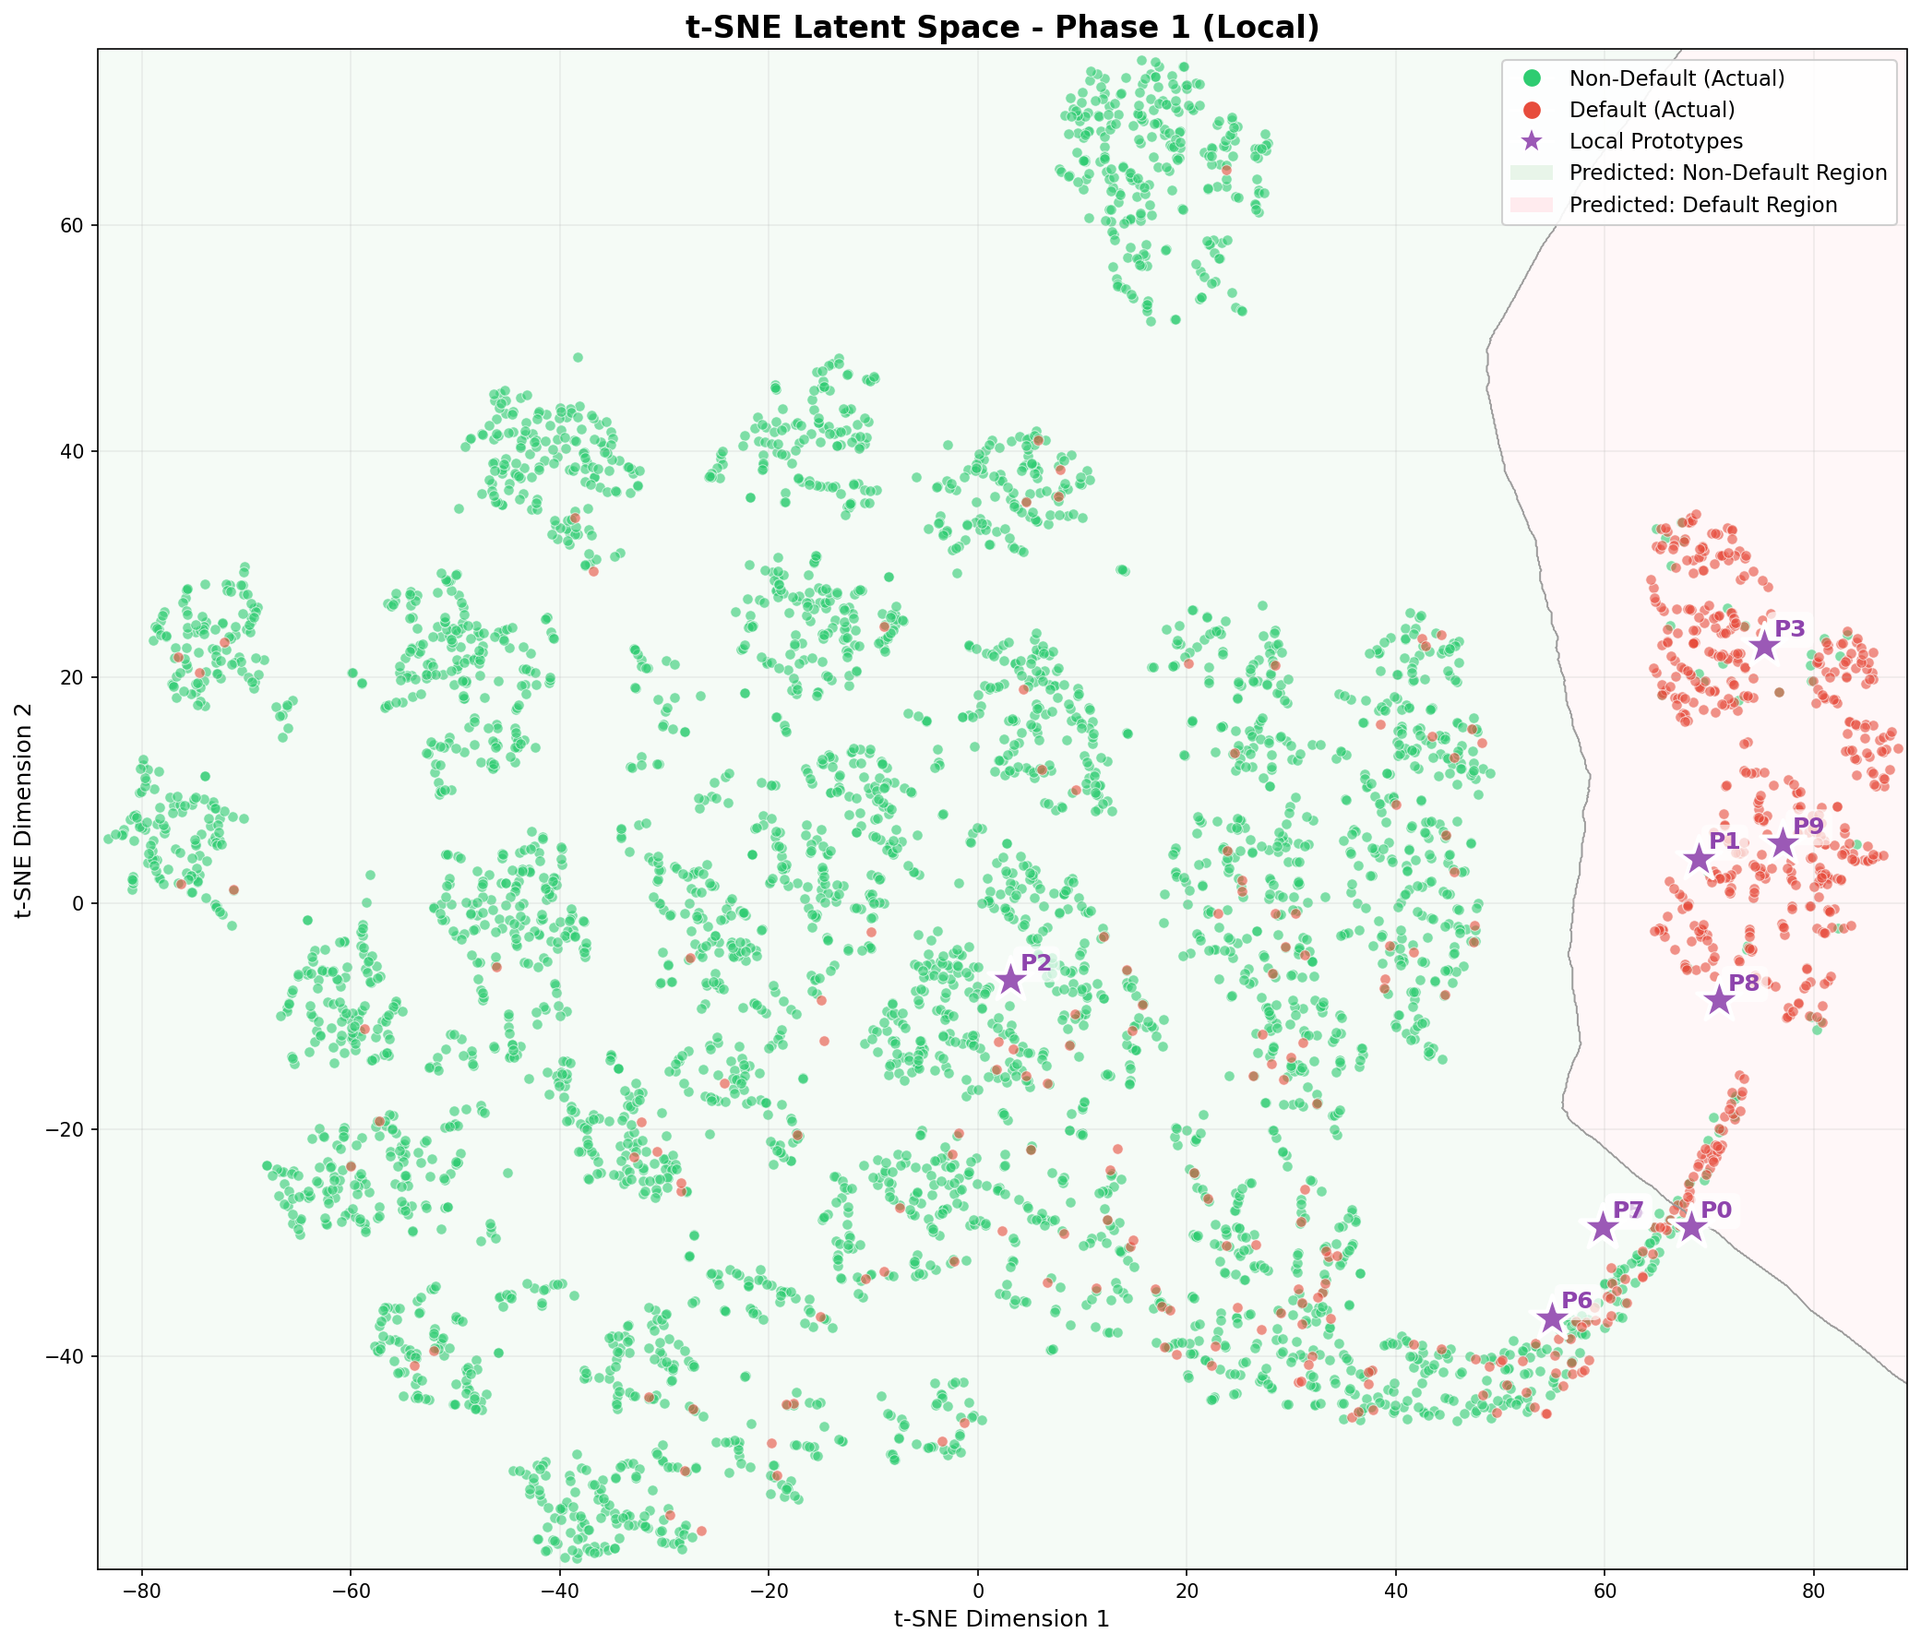
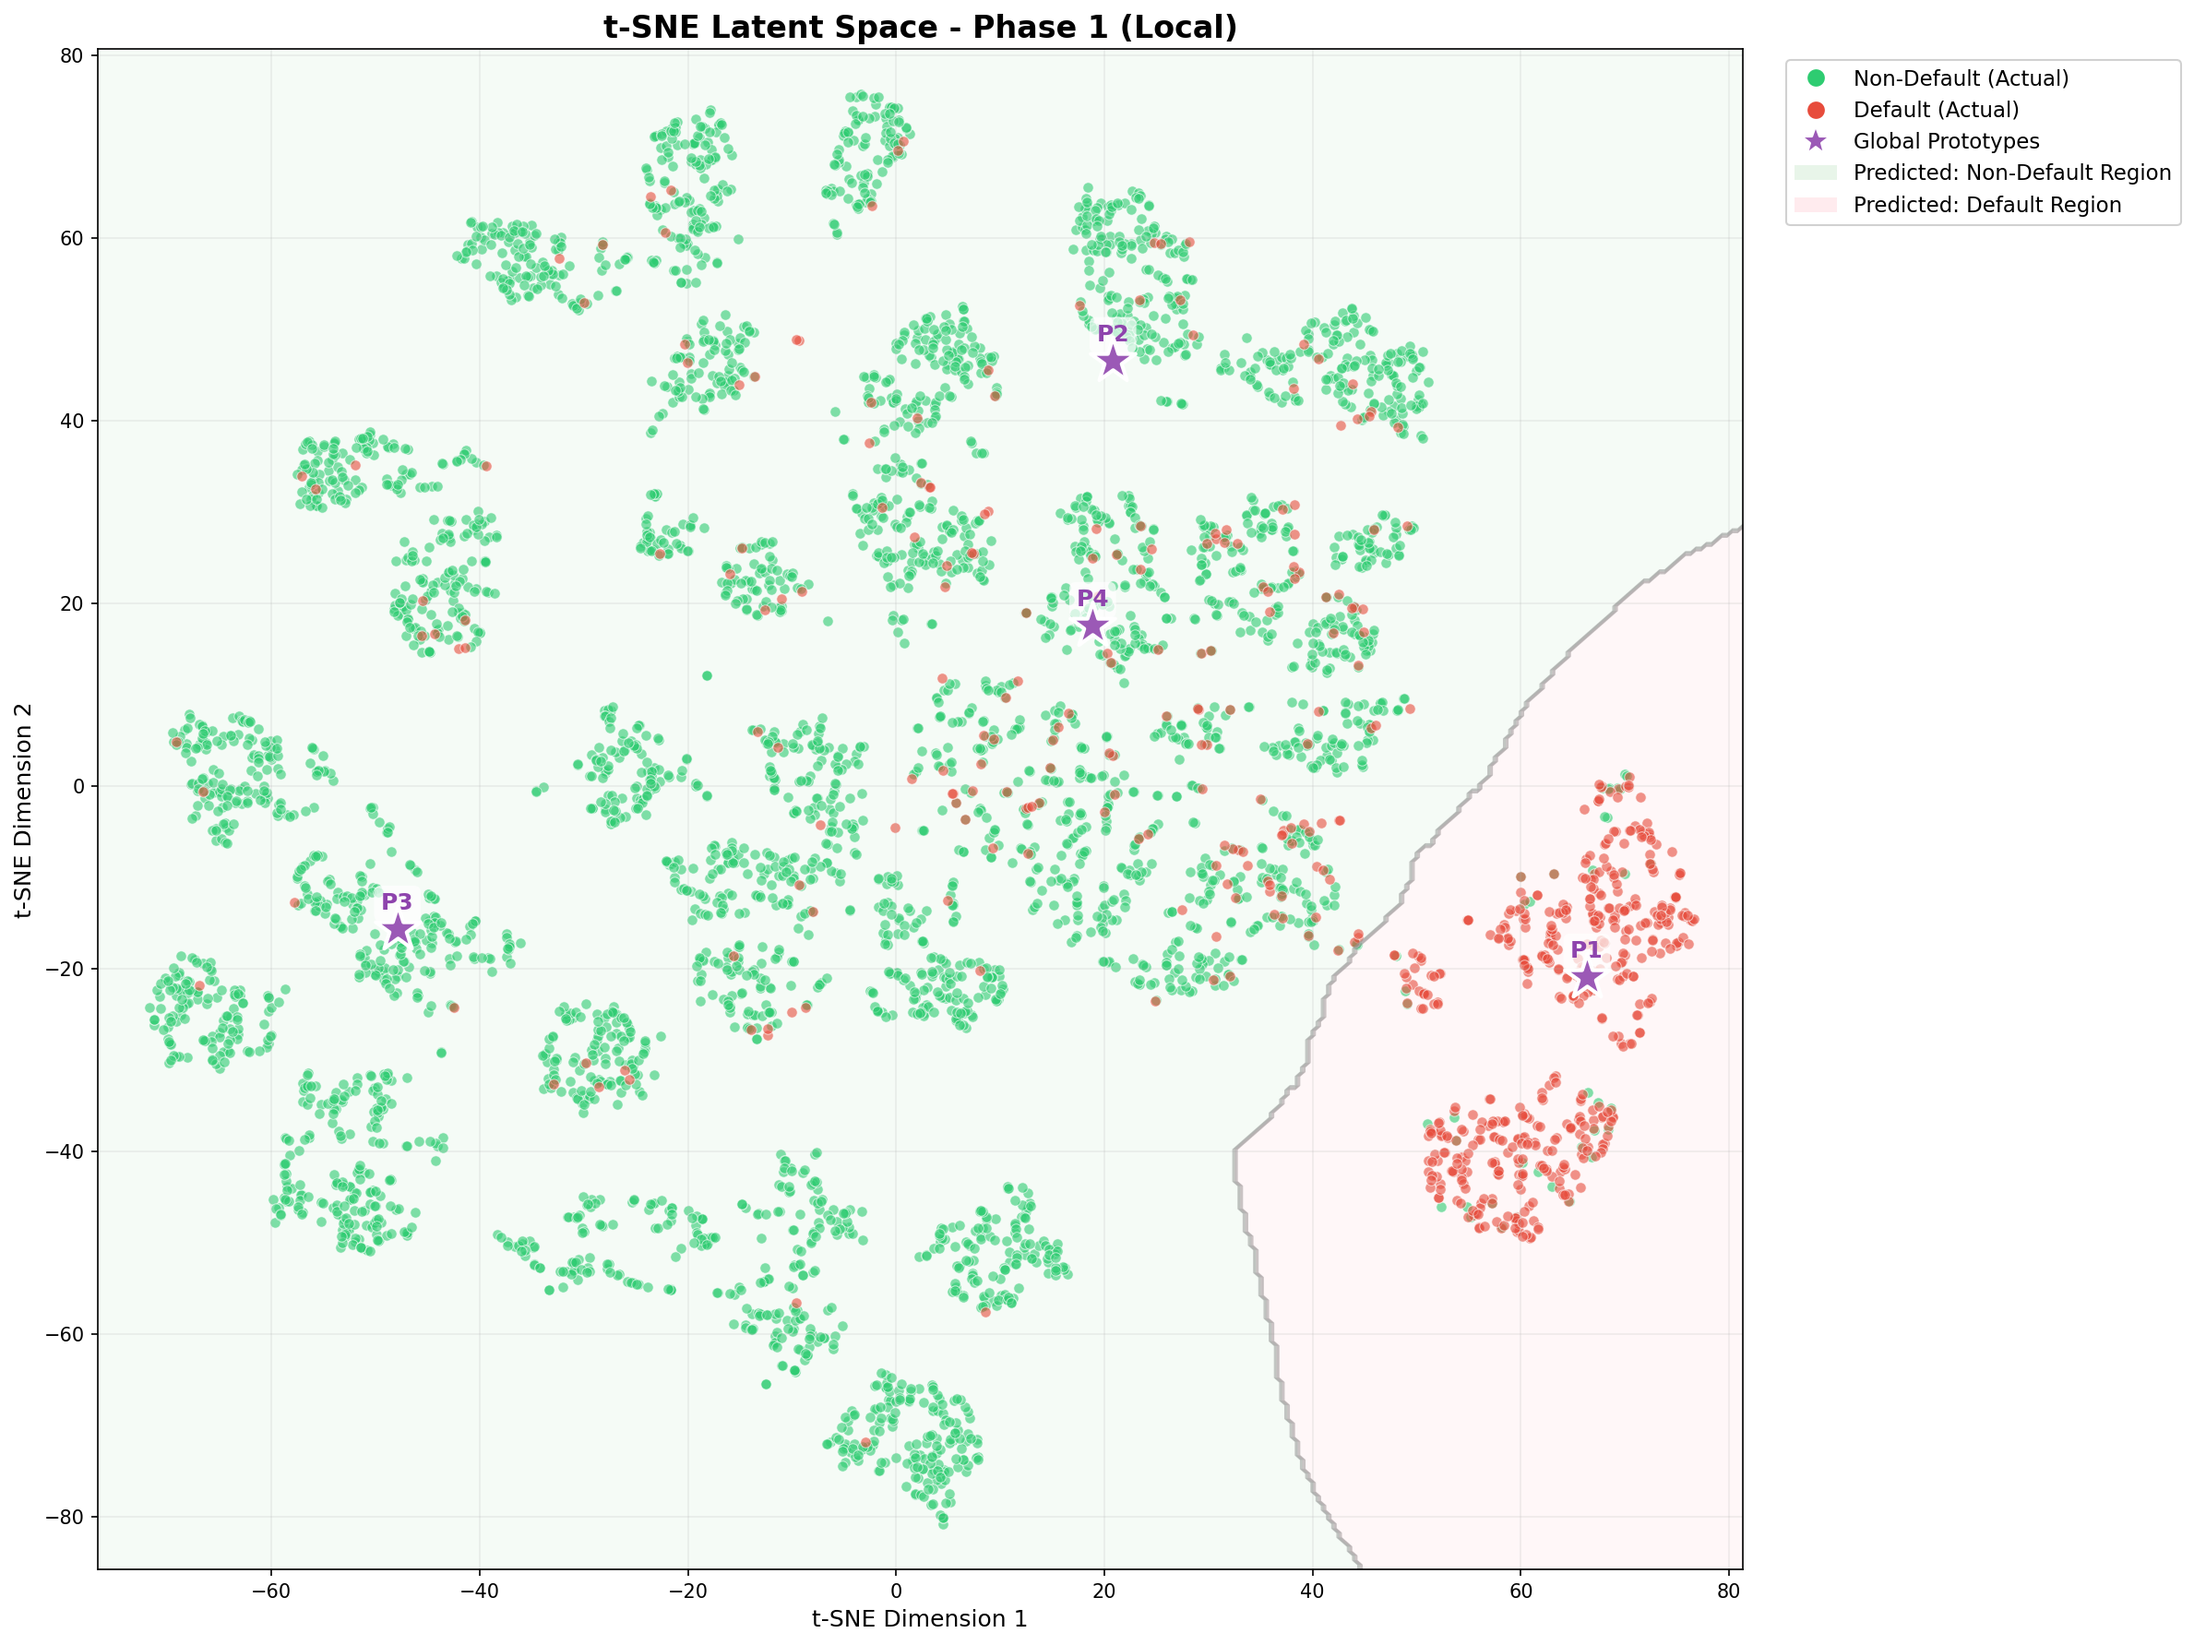
리팩토링 완료. 거의 최종

diff --git a/generate_outputs.py b/generate_outputs.py
@@ -60,11 +60,10 @@ def load_model_and_preprocessor(
     checkpoint = torch.load(model_path, map_location='cpu')
     state_dict = checkpoint['model_state_dict']
     
-    # Infer n_prototypes from state_dict
+    # Infer n_prototypes from state_dict (Silent update)
     if 'prototype_layer.prototypes' in state_dict:
         n_prototypes = state_dict['prototype_layer.prototypes'].shape[0]
         config.n_prototypes = n_prototypes
-        print(f"  Inferred n_prototypes: {n_prototypes}")
     
     # Infer global prototypes
     if 'global_prototype_layer.prototypes' in state_dict:
@@ -118,10 +117,10 @@ def create_tsne_visualization(
     perplexity: int = 30,
     random_state: int = 42
 ):
-    """Create t-SNE visualization of latent space with prototypes."""
+    """Create t-SNE visualization using GLOBAL prototypes for all phases."""
     print(f"Creating t-SNE visualization with {n_samples} samples...")
     
-    # Sample training data
+    # Sample training data for visualization
     np.random.seed(random_state)
     indices = np.random.choice(len(train_num), min(n_samples, len(train_num)), replace=False)
     
@@ -129,18 +128,40 @@ def create_tsne_visualization(
     sampled_cat = train_cat[indices]
     sampled_labels = train_labels[indices]
     
-    # Get latent representations
-    print("  Getting latent representations...")
+    # Get latent representations for sampled data
+    print("  Getting latent representations for visualization...")
     latents = get_latent_representations(model, sampled_num, sampled_cat)
     
-    # Get prototype vectors based on phase
-    if model.phase == 2:
-        prototypes = model.global_prototype_layer.prototypes.detach().numpy()
-        proto_label = 'Global Prototypes'
-    else:
-        prototypes = model.prototype_layer.prototypes.detach().numpy()
-        proto_label = 'Local Prototypes'
+    # --- HANDLE PROTOTYPES ---
+    # We ALWAYS want to show Global Prototypes (4), even for Phase 1.
+    # If the model is in Phase 1 or Global Prototypes are not initialized (all zeros or random),
+    # we need to initialize them using KMeans on the embeddings, just like in Phase 2 training.
+    
+    print("  Preparing Global Prototypes...")
+    global_protos = model.global_prototype_layer.prototypes.detach().cpu()
+    
+    # Check if we need to initialize/re-initialize global prototypes
+    # Condition: Phase 1 OR (Phase 2 but prototypes look uninitialized/random)
+    # A simple check is difficult, so for Phase 1 we ALWAYS re-initialize to show what Phase 2 WOULD start with.
+    if model.phase == 1:
+        print("    Phase 1 detected: Initializing Global Prototypes via KMeans for visualization...")
+        # We need embeddings from FULL training data to do good KMeans, or at least a large subset.
+        # Using the sampled data (5000) is usually sufficient for valid visualization.
+        
+        # NOTE: model.initialize_global_prototypes expects tensor on same device
+        # We use the 'latents' computed above (numpy) -> tensor
+        latents_tensor = torch.tensor(latents, dtype=torch.float32)
+        
+        # Run KMeans initialization
+        model.global_prototype_layer.initialize_from_embeddings(latents_tensor)
+        
+        # Update global_protos
+        global_protos = model.global_prototype_layer.prototypes.detach().cpu()
+        print(f"    Initialized {len(global_protos)} Global Prototypes.")
+    
+    prototypes = global_protos.numpy()
     n_prototypes = len(prototypes)
+    proto_label = 'Global Prototypes'
     
     # Combine latents and prototypes for t-SNE
     all_vectors = np.vstack([latents, prototypes])
@@ -166,13 +187,18 @@ def create_tsne_visualization(
     
     z_tensor = torch.tensor(latents, dtype=torch.float32)
     with torch.no_grad():
+        # Ideally, we should use the full model, but for Phase 1, pspace_classifier isn't trained.
+        # So we use the Phase 1 classifier (local prototypes) to get the PREDICTIONS (Non-Default/Default),
+        # but we visualize the GLOBAL prototypes.
+        
         if model.phase == 2:
             coordinates = model.projector(z_tensor)
             p_space = model.global_prototype_layer(coordinates)
             logits = model.pspace_classifier(p_space).squeeze(-1)
         else:
-            similarities = model.prototype_layer(z_tensor)
-            logits = model.classifier(similarities)
+            # Phase 1: Use simple linear classifier (no local prototypes)
+            logits = model.phase1_classifier(z_tensor).squeeze(-1)
+            
         probs = torch.sigmoid(logits).numpy()
         preds = (probs > 0.5).astype(int)
         

diff --git a/src/training/losses.py b/src/training/losses.py
@@ -9,30 +9,28 @@ from typing import Dict
 
 class PrototypeLoss(nn.Module):
     """
-    Combined loss function for prototype network (Phase 1).
+    Phase 1 Loss function (aligned with PTaRL paper).
     
-    Loss = L_classification + λ_recon * L_reconstruction 
-         + λ_diversity * L_diversity + λ_clustering * L_clustering
+    Loss = L_classification + λ_recon * L_reconstruction
     
     Components:
     1. Classification Loss (BCE): Main task loss
-    2. Reconstruction Loss: Ensures latent space preserves information
-    3. Diversity Loss: Encourages prototypes to be different
-    4. Clustering Loss: Encourages samples to be near prototypes
+    2. Reconstruction Loss: Ensures latent space preserves information (keeps decoder aligned)
+    
+    Note: Diversity and Clustering losses removed per PTaRL paper.
+          Phase 1 is simple supervised learning without prototypes.
     """
     
     def __init__(
         self,
         lambda_reconstruction: float = 0.1,
-        lambda_diversity: float = 0.01,
-        lambda_clustering: float = 0.05,
+        lambda_diversity: float = 0.01,  # Kept for backward compat, but unused
+        lambda_clustering: float = 0.05,  # Kept for backward compat, but unused
         num_weight: float = 1.0,
         cat_weight: float = 1.0
     ):
         super().__init__()
         self.lambda_reconstruction = lambda_reconstruction
-        self.lambda_diversity = lambda_diversity
-        self.lambda_clustering = lambda_clustering
         self.num_weight = num_weight
         self.cat_weight = cat_weight
         
@@ -46,17 +44,17 @@ class PrototypeLoss(nn.Module):
         targets: torch.Tensor,
         x_num: torch.Tensor,
         x_cat: torch.Tensor,
-        prototype_layer
+        prototype_layer=None  # Not used anymore, kept for backward compat
     ) -> Dict[str, torch.Tensor]:
         """
-        Compute all losses.
+        Compute Phase 1 losses.
         
         Args:
             outputs: Model output dictionary
             targets: (batch_size,) target labels
             x_num: (batch_size, n_numerical) input numerical features
             x_cat: (batch_size, n_categorical) input categorical features
-            prototype_layer: PrototypeLayer for regularization losses
+            prototype_layer: Unused, kept for backward compatibility
             
         Returns:
             Dictionary of losses including 'total' loss
@@ -75,25 +73,8 @@ class PrototypeLoss(nn.Module):
         
         loss_recon = self.num_weight * loss_recon_num + self.cat_weight * loss_recon_cat
         
-        # 3. Diversity loss (encourage prototypes to be different)
-        loss_diversity = prototype_layer.diversity_loss()
-        
-        # 4. Clustering loss (encourage samples to be near prototypes)
-        # Handle ClassBalancedPrototypeLayer which requires labels
-        import inspect
-        sig = inspect.signature(prototype_layer.clustering_loss)
-        if 'labels' in sig.parameters:
-            loss_clustering = prototype_layer.clustering_loss(outputs['z'], targets)
-        else:
-            loss_clustering = prototype_layer.clustering_loss(outputs['z'])
-        
-        # Total loss
-        total_loss = (
-            loss_cls 
-            + self.lambda_reconstruction * loss_recon
-            + self.lambda_diversity * loss_diversity
-            + self.lambda_clustering * loss_clustering
-        )
+        # Total loss (simplified per PTaRL paper)
+        total_loss = loss_cls + self.lambda_reconstruction * loss_recon
         
         return {
             'total': total_loss,
@@ -101,8 +82,6 @@ class PrototypeLoss(nn.Module):
             'reconstruction': loss_recon,
             'reconstruction_num': loss_recon_num,
             'reconstruction_cat': loss_recon_cat,
-            'diversity': loss_diversity,
-            'clustering': loss_clustering
         }
 
 

diff --git a/src/training/trainer.py b/src/training/trainer.py
@@ -94,6 +94,36 @@ class Trainer:
         embeddings, _ = self._collect_embeddings_and_labels()
         return embeddings
     
+    def _reinitialize_encoder(self):
+        """
+        Re-initialize encoder parameters for Phase 2 (per PTaRL paper).
+        
+        The paper re-initializes ALL model parameters when starting Phase 2,
+        keeping only the global prototypes learned from Phase 1 embeddings.
+        """
+        # Re-initialize encoder
+        for module in self.model.encoder.modules():
+            if hasattr(module, 'reset_parameters'):
+                module.reset_parameters()
+        
+        # Re-initialize Phase 1 classifier (will be unused in Phase 2)
+        if hasattr(self.model, 'phase1_classifier'):
+            self.model.phase1_classifier.reset_parameters()
+        
+        # Re-initialize projector (Phase 2 component)
+        for module in self.model.projector.modules():
+            if hasattr(module, 'reset_parameters'):
+                module.reset_parameters()
+        
+        # Re-initialize P-Space classifier
+        if hasattr(self.model, 'pspace_classifier'):
+            self.model.pspace_classifier.reset_parameters()
+        
+        # Re-initialize decoder
+        for module in self.model.decoder.modules():
+            if hasattr(module, 'reset_parameters'):
+                module.reset_parameters()
+
     def _collect_embeddings_and_labels(self) -> tuple:
         """Collect all embeddings and labels from training data."""
         self.model.eval()
@@ -243,15 +273,18 @@ class Trainer:
         self.current_phase = phase
         
         if phase == 1:
-            # Initialize class-balanced local prototypes before Phase 1
-            if hasattr(self.model, 'initialize_local_prototypes') and not getattr(self.model, '_local_prototypes_initialized', False):
-                if verbose:
-                    print("Initializing class-balanced local prototypes via KMeans...")
-                embeddings, labels = self._collect_embeddings_and_labels()
-                self.model.initialize_local_prototypes(embeddings, labels)
+            # Phase 1: Simple supervised learning (per PTaRL paper)
+            # No local prototype initialization needed - just train encoder + classifier
             self.model.set_first_phase()
+            if verbose:
+                print("Phase 1: Training encoder + classifier (no local prototypes)")
         else:
-            # Initialize global prototypes via KMeans
+            # Phase 2: Re-initialize encoder + train with P-Space (per PTaRL paper)
+            if verbose:
+                print("Re-initializing encoder parameters for Phase 2 (per PTaRL paper)...")
+            self._reinitialize_encoder()
+            
+            # Initialize global prototypes via KMeans on Phase 1 embeddings
             if verbose:
                 print("Initializing global prototypes via KMeans...")
             embeddings = self._collect_embeddings()

diff --git a/src/models/model.py b/src/models/model.py
@@ -122,11 +122,18 @@ class PrototypeNetwork(nn.Module):
         )
         
         # 5. Classification Heads
+        # Phase 1: Simple linear classifier on embeddings (per PTaRL paper)
+        self.phase1_classifier = nn.Linear(d_model, 1)
+        nn.init.xavier_uniform_(self.phase1_classifier.weight)
+        nn.init.constant_(self.phase1_classifier.bias, -2.0)  # Initialize for imbalanced data
+        
+        # Prototype-based classifier (kept for compatibility, used in explanations)
         self.classifier = ClassificationHead(
             n_prototypes=n_local_prototypes,
             n_classes=1
         )
         
+        # Phase 2: P-Space classifier
         self.pspace_classifier = nn.Linear(d_model, 1)
         nn.init.xavier_uniform_(self.pspace_classifier.weight)
         nn.init.constant_(self.pspace_classifier.bias, -2.0)
@@ -186,10 +193,16 @@ class PrototypeNetwork(nn.Module):
         x_cat: torch.Tensor,
         return_all: bool = True
     ) -> Dict[str, Any]:
-        """Phase 1 forward pass: standard prototype-based classification."""
+        """
+        Phase 1 forward pass: Simple encoder → classifier (per PTaRL paper).
+        
+        No local prototype layer - just learns good representations.
+        Reconstruction loss is used to ensure encoder learns useful features.
+        """
         z = self.encoder(x_num, x_cat)
-        similarities = self.prototype_layer(z)
-        logits = self.classifier(similarities)
+        
+        # Simple linear classification on embeddings
+        logits = self.phase1_classifier(z).squeeze(-1)
         probabilities = torch.sigmoid(logits)
         
         result = {
@@ -199,12 +212,10 @@ class PrototypeNetwork(nn.Module):
         }
         
         if return_all:
+            # Decoder for reconstruction loss
             num_recon, cat_recons = self.decoder(z)
-            contributions = self.classifier.get_prototype_contributions(similarities)
             
             result.update({
-                'similarities': similarities,
-                'contributions': contributions,
                 'num_recon': num_recon,
                 'cat_recons': cat_recons
             })
